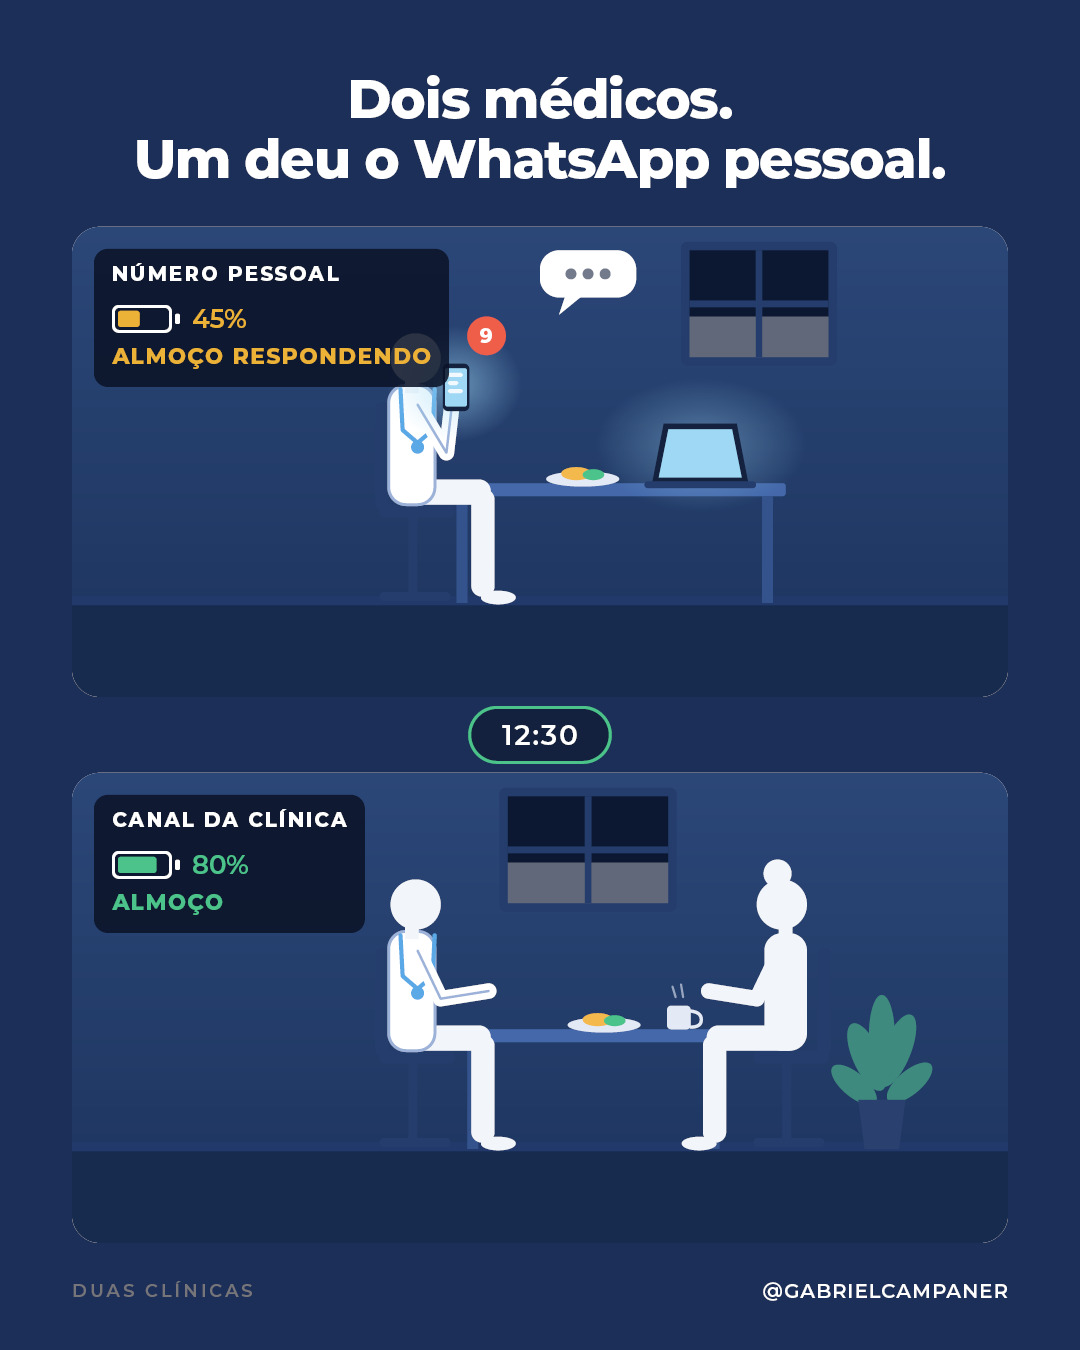
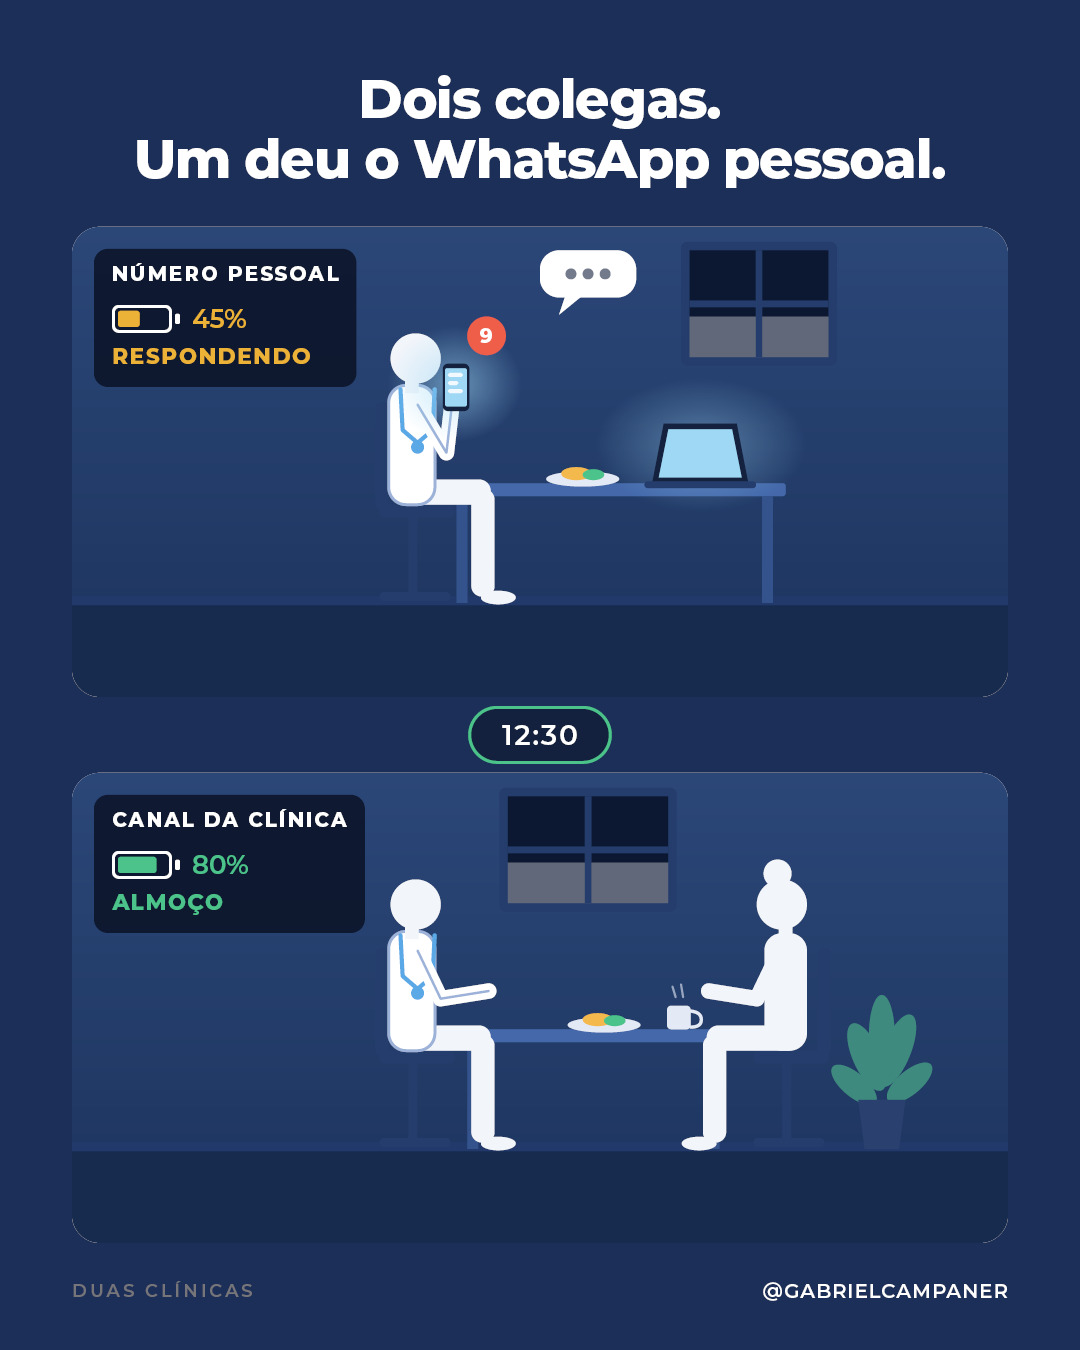
Calendário: L3-25, L3-40 e FR-08 falam com todas as áreas
Troca "médico" por "colega" e "com quem se consultar" na arte e na legenda.
L3-25: a caixa da capa não cobre mais a cabeça do personagem.

Changed region(s): [[0.0917, 0.1867, 0.4278, 0.3111], [0.3056, 0.0311, 0.6722, 0.0933]]

diff --git a/AGENDA.md b/AGENDA.md
@@ -1,6 +1,6 @@
 # Agenda do Instagram da GC
 
-Gerada em 06/11/2026, 12:47:59. 279 posts agendados, 3 pendentes. Stories com enquete e caixinha são feitos à mão, no dia do post.
+Gerada em 06/11/2026, 12:53:27. 279 posts agendados, 3 pendentes. Stories com enquete e caixinha são feitos à mão, no dia do post.
 
 
 ## terça, 20/10
@@ -263,7 +263,7 @@ Gerada em 06/11/2026, 12:47:59. 279 posts agendados, 3 pendentes. Stories com en
   - Lembrete: Ative o rótulo de IA no post publicado (a API não marca).
 - **15h00 · ODJ10 · Os Doutores · Vesti o teu jaleco: a cunhada no financeiro** (carrossel)
   - Lembrete: Ative o rótulo de IA no post publicado (a API não marca).
-- **18h30 · L3-25 · O WhatsApp pessoal do médico** (carrossel)
+- **18h30 · L3-25 · O WhatsApp pessoal com o paciente** (carrossel)
   - Stories: Enquete: "Paciente tem o seu WhatsApp pessoal?" · Tem / Não tem / Tinha.
 - **20h30 · L4-15 · Quanto custa uma secretária de verdade** (carrossel)
   - Stories: Enquete: "A sua recepção tem roteiro escrito?" · Tem / Está na cabeça dela.
